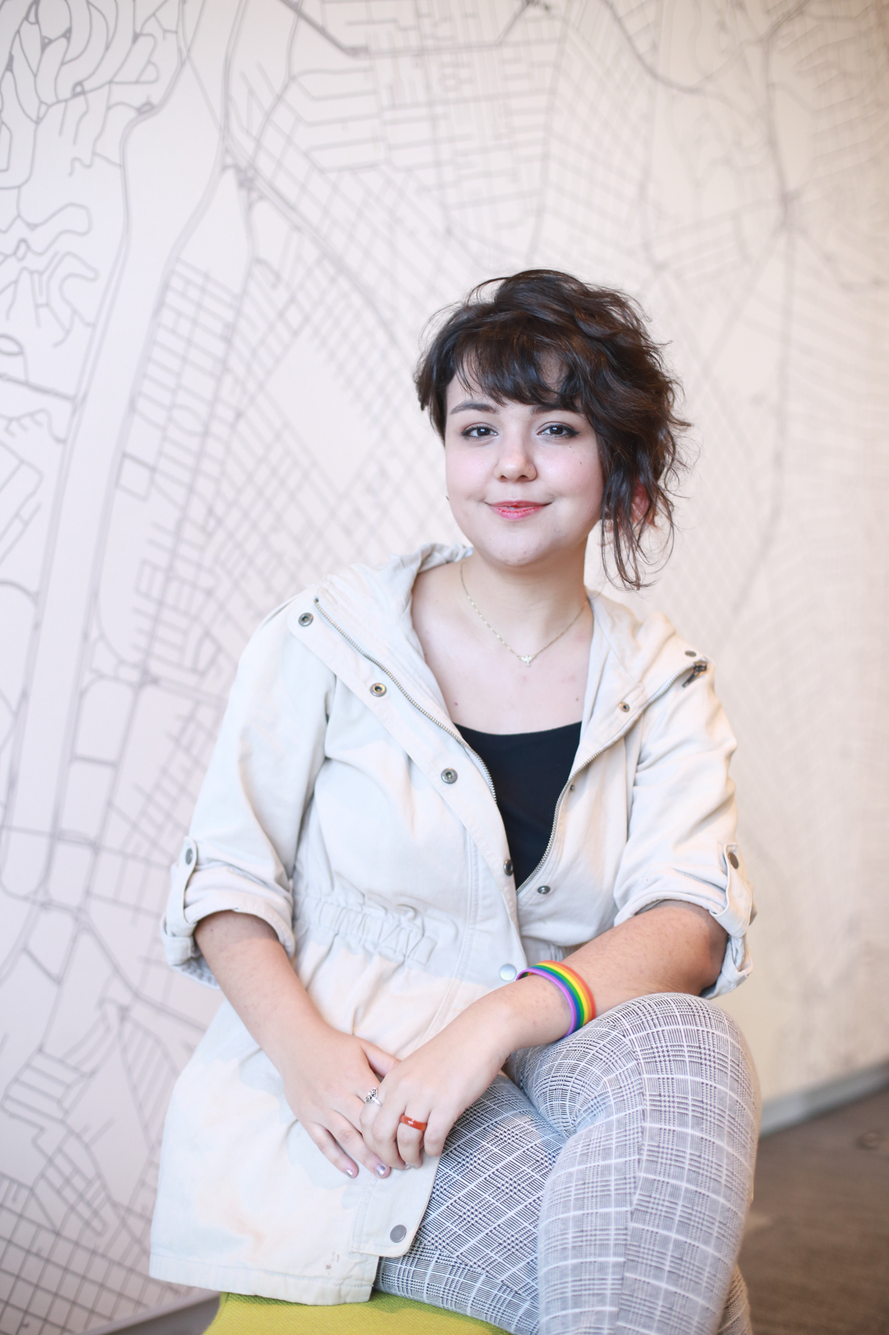
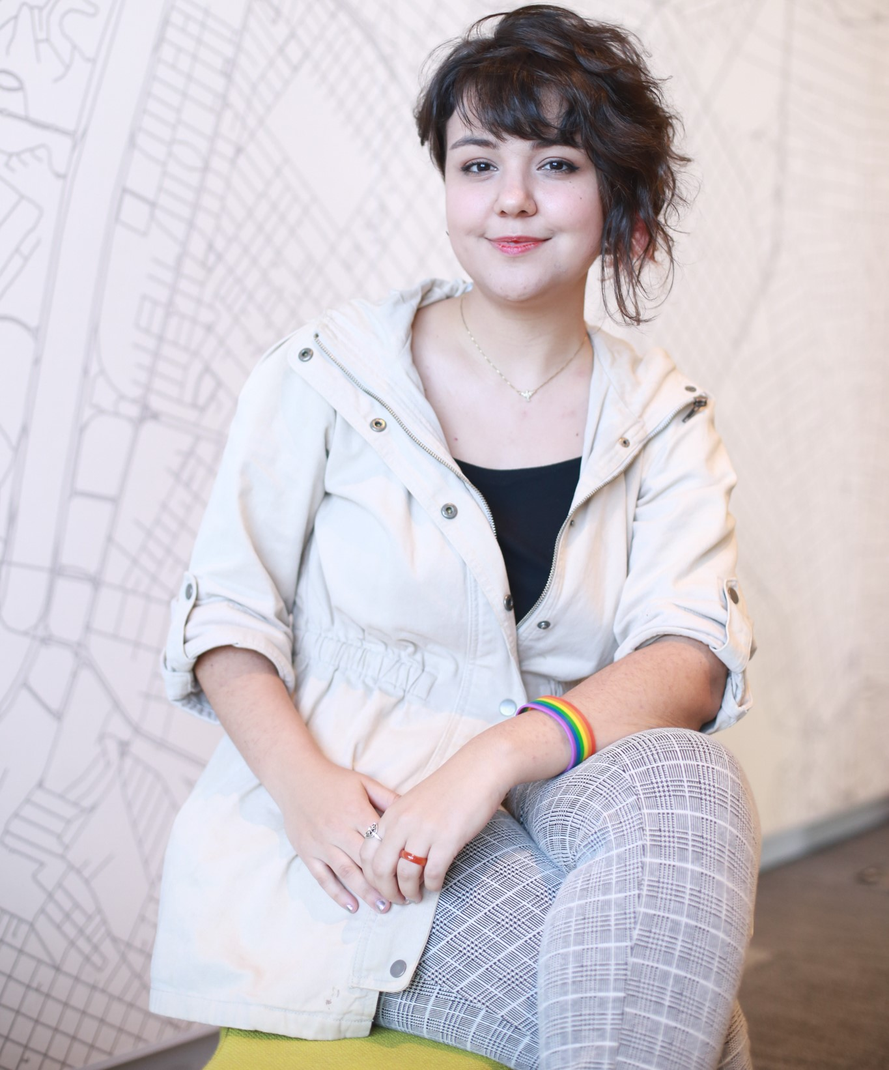
Altera foto e campo de foto

diff --git a/main.css b/main.css
@@ -79,6 +79,13 @@ h6 {
     background-size: cover;
     border-radius: 50%;
     max-width: 300px;
+    box-shadow: 2px 8px 45px rgba(0, 0, 0, 0.384);
+}
+
+.fotinho:hover {
+    box-shadow: 21px 15px 66px rgb(247 247 247 / 67%);
+    border-radius: 50%;
+    transform: translate3d(18px, 18px, 0);
 }
 
 .bg-subcategories {
